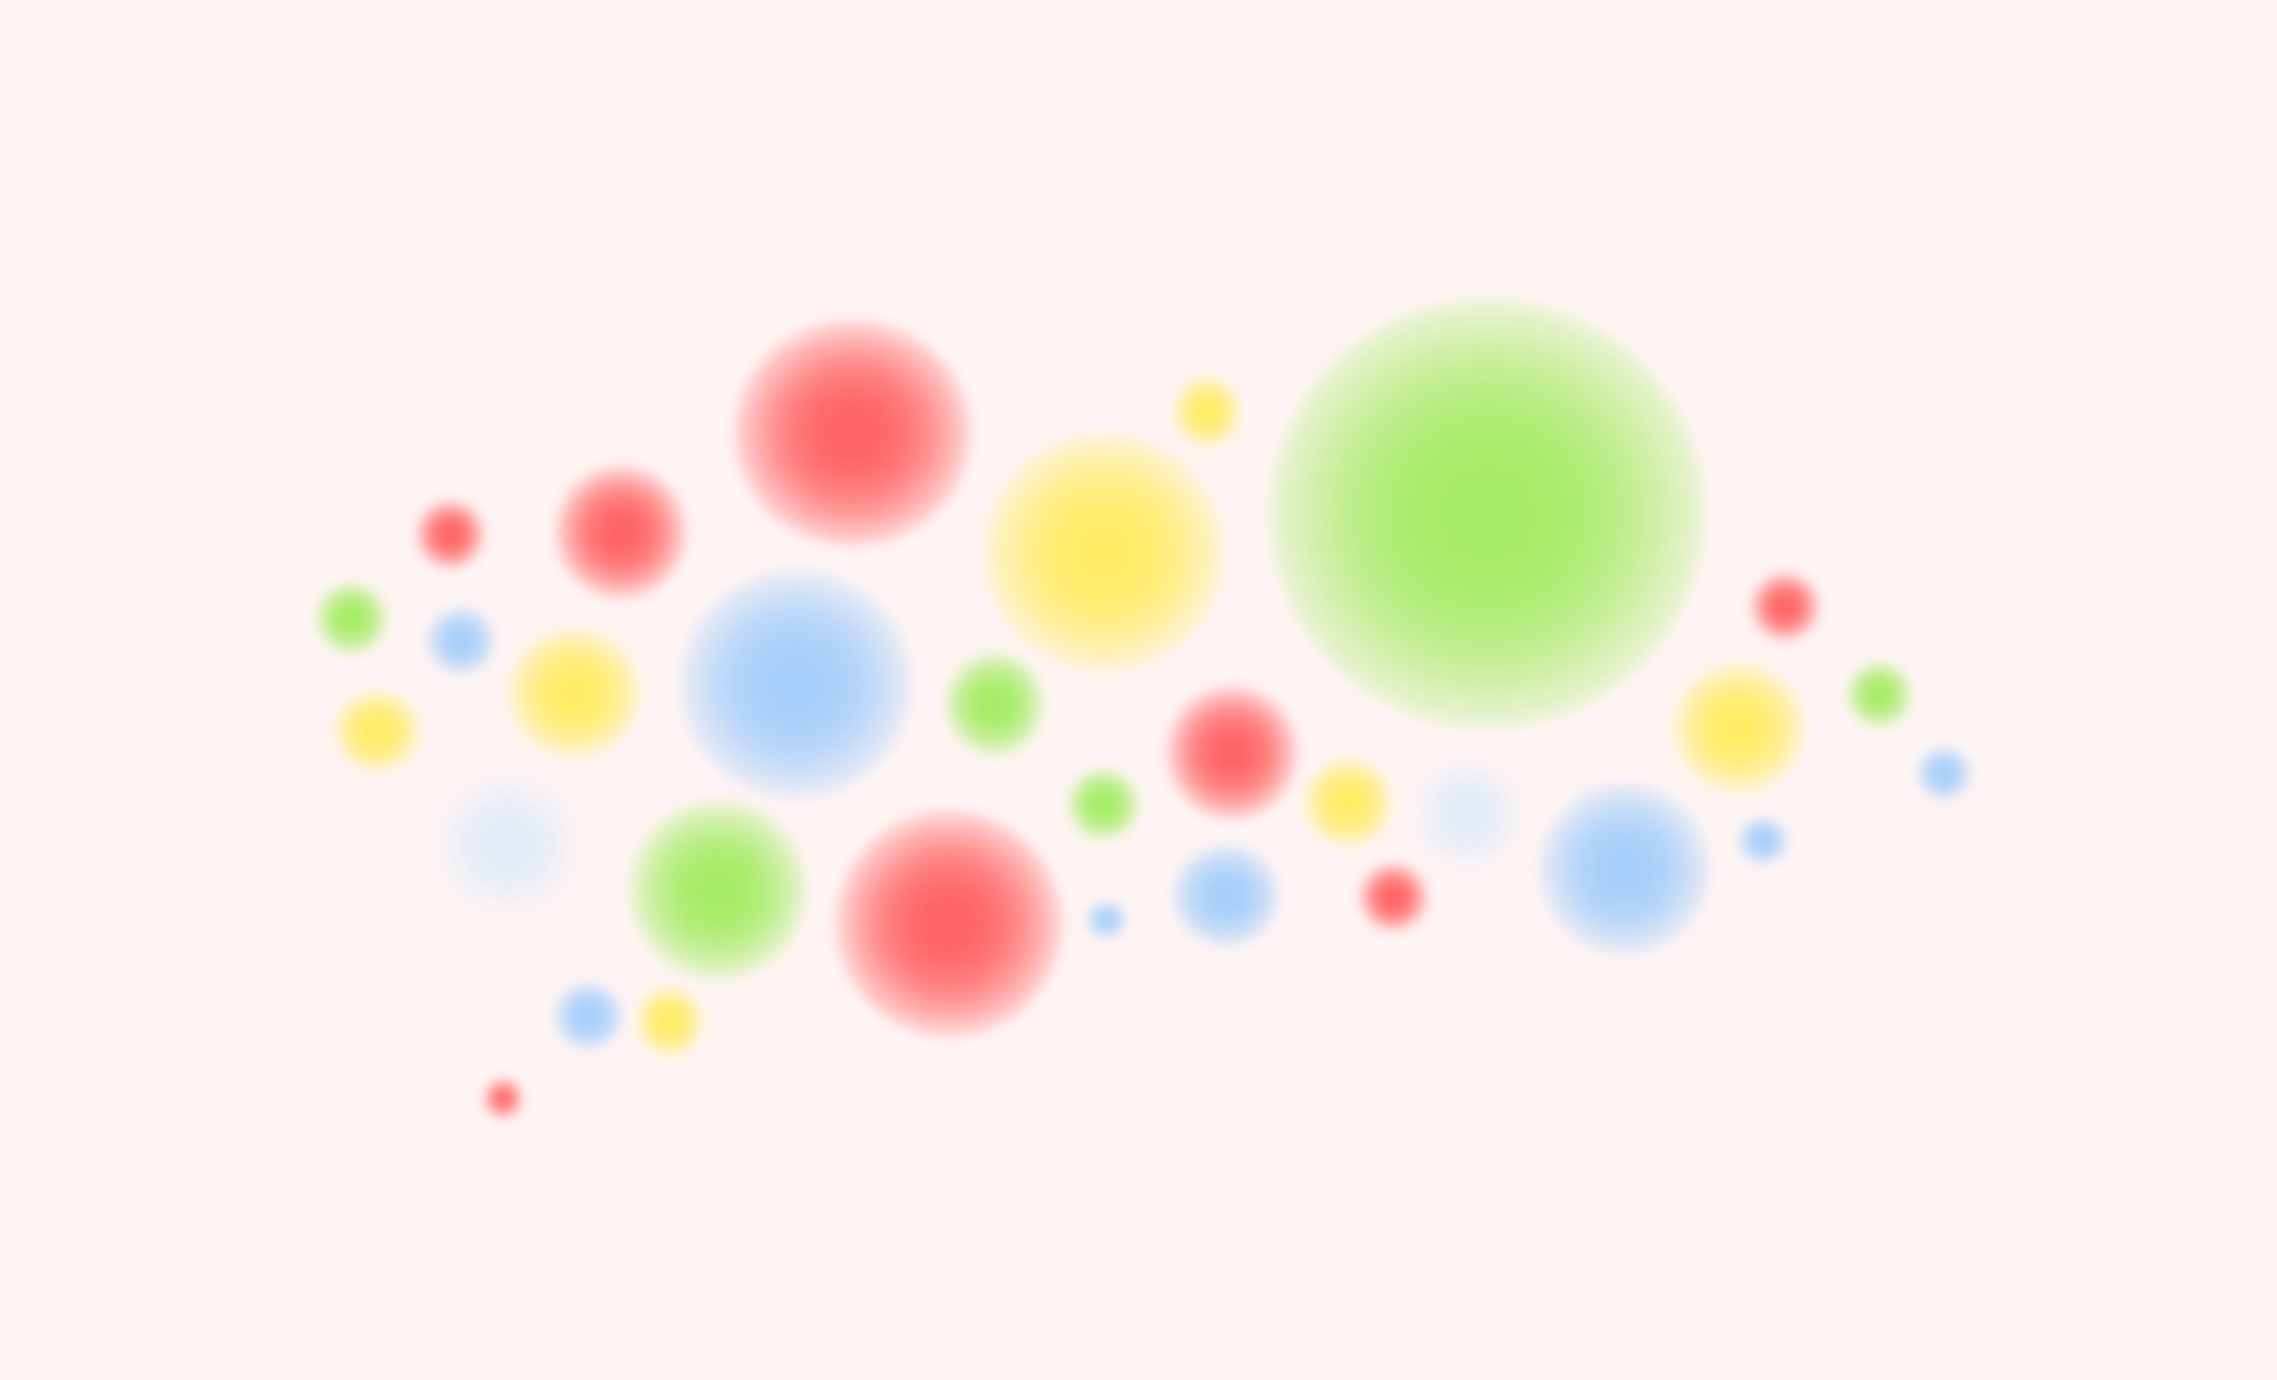
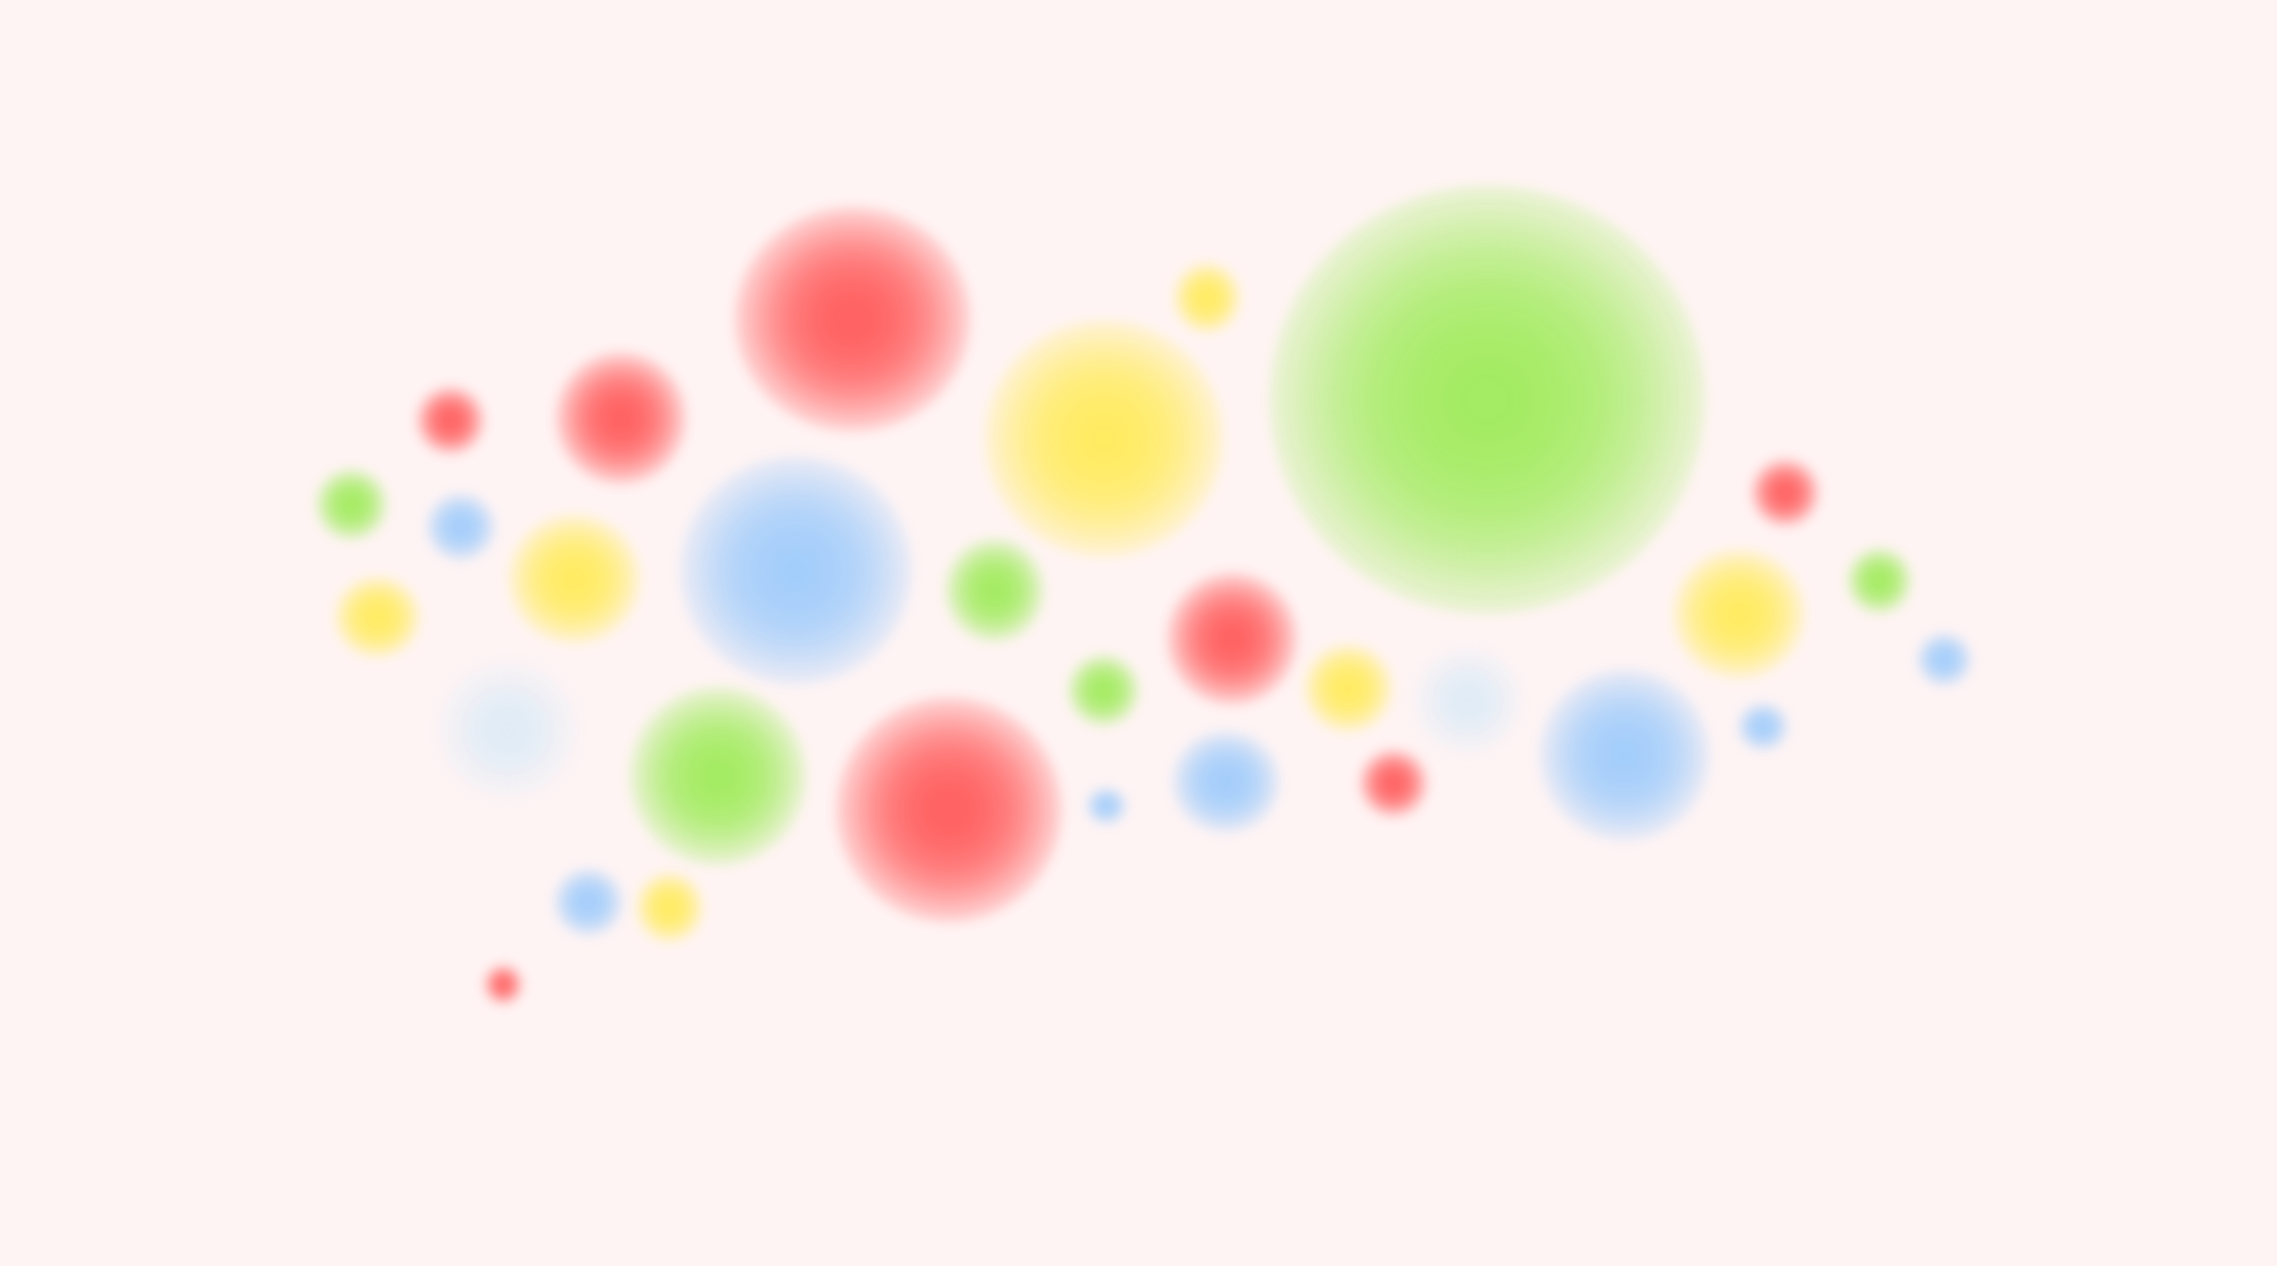
Clean home page and more

Changed region(s): [[0.1247, 0.154, 0.8731, 0.8009]]

diff --git a/layouts/index.html b/layouts/index.html
@@ -1,52 +1,3 @@
 {{ define "main" }}
 
-{{ $background_image := partial "func/GetBackgroundImage.html" . }}
-<div style="background: linear-gradient(to bottom, rgba(255,244,244,0) 97%, rgba(255,244,244,1)) 100%, url('{{ $background_image }}'); background-repeat: repeat-y;">
-
-{{ partial "home-parts.html" . }}
-
-  <div class="mt6" id="post_section">
-    {{/* Define a section to pull recent posts from. For Hugo 0.20 this will default to the section with the most number of pages. */}}
-    {{ $mainSections := .Site.Params.mainSections | default (slice "post") }}
-    {{/* Create a variable with that section to use in multiple places. */}}
-    {{ $section := where .Site.RegularPages "Section" "in" $mainSections }}
-    {{/* Check to see if the section is defined for ranging through it */}}
-    {{ $section_count := len $section }}
-    {{ if ge $section_count 1 }}
-      {{/* Derive the section name  */}}
-      {{ $section_name := index (.Site.Params.mainSections) 0 }}
-
-      <div class="pa3 pa4-ns w-100 w-70-ns center">
-        {{/* Use $section_name to get the section title. Use "with" to only show it if it exists */}}
-        {{ with .Site.GetPage "section" $section_name }}
-            <div class="fw1 f1 f1-l part-title">
-              {{ $.Param "recent_copy" | default (i18n "recentTitle" .) }}
-            </div>
-          {{ end }}
-
-        {{ $n_posts := $.Param "recent_posts_number" | default 3 }}
-
-        <section class="w-100 mw8">
-          {{/* Range through the first $n_posts items of the section */}}
-          {{ range (first $n_posts $section) }}
-            <div class="relative w-100 mb4">
-              {{ .Render "summary-with-image" }}
-            </div>
-          {{ end }}
-        </section>
-
-        {{ if ge $section_count (add $n_posts 1) }}
-        <section class="w-100">
-          
-          {{/* As above, Use $section_name to get the section title, and URL. Use "with" to only show it if it exists */}}
-          {{ with .Site.GetPage "section" $section_name }}
-            <a href="{{ .RelPermalink }}" class="link db f6 pa2 br3 bg-mid-gray white dim w4 tc center">{{ i18n "allPosts" . }}</a>
-          {{ end }}
-          </section>
-        {{ end }}
-
-        </div>
-    {{ end }}
-  </div>
-</div>
 {{ end }}

diff --git a/layouts/partials/site-header.html b/layouts/partials/site-header.html
@@ -1,7 +1,7 @@
 {{ $featured_image := partial "func/GetFeaturedImage.html" . }}
 {{ if $featured_image }}
   {{/* Trimming the slash and adding absURL make sure the image works no matter where our site lives */}}
-  <header class="cover bg-top" style="background: linear-gradient(to bottom, rgba(255,244,244,0) 90%, rgba(255,244,244,1) 100%), url('{{ $featured_image }}');">
+  <header class="cover bg-top vh-100" style="background: linear-gradient(to bottom, rgba(255,244,244,0) 90%, rgba(255,244,244,1) 100%), url('{{ $featured_image }}');">
     <div>
       {{ partial "site-navigation.html" .}}
       <div class="tc-l pv4 pt5-l pb7-l ph3 ph4-ns">
@@ -9,22 +9,22 @@
           {{ .Title | default .Site.Title }}
         </h1>
         {{ with .Params.description }}
-          <h2 class="fw1 f5 f3-l black-85 measure-wide-l center mt3">
+          <h2 class="normal f3-l black-85 measure-wide-l center mt3">
             {{ . }}
           </h2>
         {{ end }}
         {{ with .Params.jobs }}
-          <h3 class="fw1 f5 black-85 measure-wide-l center mt3">
+          <h3 class="normal f4 black-85 measure-wide-l center mt3">
             {{ . }}
           </h3>
         {{ end }}
         {{ with .Params.interests }}
-          <h3 class="fw1 f5 black-85 measure-wide-l center mt3">
+          <h3 class="normal f4 black-85 measure-wide-l center mt3">
             {{ . }}
           </h3>
         {{ end }}
-        {{ with .Params.next_div_id }}
-          <a href="#{{ . }}" class="ba b--moon-gray bg-light-gray br2 color-inherit dib f7 hover-bg-moon-gray link mt2 ph2 pv1">{{ $.Param "read_more_copy" | default (i18n "readMore") }}</a>
+        {{ with .Params.next_page }}
+          <a href="{{ . }}" class="ba b--moon-gray bg-light-gray br2 color-inherit dib f7 hover-bg-moon-gray link mt2 ph2 pv1">{{ $.Param "read_more_copy" | default (i18n "readMore") }}</a>
         {{ end }}
       </div>
     </div>

diff --git a/layouts/partials/site-navigation.html b/layouts/partials/site-navigation.html
@@ -1,6 +1,6 @@
 <nav class="pv3 ph3 ph4-ns" role="navigation">
   <div class="flex-l justify-between items-center center">
-    <a href="{{ .Site.Home.RelPermalink }}" class="f3 fw2 hover-white no-underline black-85 dib">
+    <a href="{{ .Site.Home.RelPermalink }}" class="f3 fw2 no-underline black-85 dib">
       {{ with .Site.Params.site_logo }}
         <img src="{{ relURL . }}" class="w100 mw5-ns" alt="{{ $.Site.Title }}" />
       {{ else }}
@@ -13,7 +13,7 @@
         <ul class="{{ cond (eq $.Site.Language.LanguageDirection "rtl") "pr0 ml3" "pl0 mr3" }}">
           {{ range .Site.Menus.main }}
           <li class="list f5 f4-ns fw4 dib {{ cond (eq $.Site.Language.LanguageDirection "rtl") "pl3" "pr3" }}">
-            <a class="hover-white no-underline black-70" href="{{ .URL }}" title="{{ i18n "pageTitle" . }}">
+            <a class="hover-blue no-underline black-70" href="{{ .URL }}" title="{{ i18n "pageTitle" . }}">
               {{ .Name }}
             </a>
           </li>

diff --git a/layouts/_default/baseof.html b/layouts/_default/baseof.html
@@ -42,10 +42,10 @@
 	{{ block "head" . }}{{ partial "head-additions.html" . }}{{ end }}
   </head>
 
-  <body class="ma0 {{ $.Param "body_classes"  | default "avenir bg-near-white"}}{{ with getenv "HUGO_ENV" }} {{ . }}{{ end }}">
+  <body class="ma0 {{ $.Param "body_classes"  | default "bg-all-site"}}{{ with getenv "HUGO_ENV" }} {{ . }}{{ end }}">
 
     {{ block "header" . }}{{ partial "site-header.html" .}}{{ end }}
-    <main class="pb4" role="main">
+    <main class="pb4" bg-all-site role="main">
       {{ block "main" . }}{{ end }}
     </main>
     {{ block "footer" . }}{{ partialCached "site-footer.html" . }}{{ end }}

diff --git a/layouts/partials/home-parts.html b/layouts/partials/home-parts.html
@@ -1,7 +1,7 @@
 {{ range where .Site.Pages "Params.home_part" true }}
 {{ $featured_image := partial "func/GetFeaturedImage.html" . }}
 
-	<div class="flex flex-column flex-row-ns pl3-ns pt5 pb7" id="{{ .Params.div_id }}">
+	<div class="flex flex-column flex-row-ns pl3-ns pt5 pb7 vh-100" id="{{ .Params.div_id }}">
 		<div class="blah w-100 w-60-ns f6 f5-l" >
 			<div class="fw1 f2 f2-l part-title">{{ .Params.part_title }}</div>
 			{{ .Content }}

diff --git a/assets/ananke/css/custom.css b/assets/ananke/css/custom.css
@@ -3,7 +3,8 @@
 }
 
 .site-body {
-    font-family: 'Source Serif Pro', serif;
+    font-family: 'Cantarell', serif;
+    color: #282828;
 }
 
 .part-title {
@@ -16,4 +17,11 @@
 
 html {
     scroll-behavior: smooth;
+}
+
+.ananke-socials a{
+    display: inline-block;
+    vertical-align: middle;
+    color: #505050;
+    fill: currentColor;
 }

diff --git a/content/chi-sono.md b/content/chi-sono.md
@@ -6,3 +6,50 @@ weight: 11
 draft: false
 ---
 
+![Maria Rosaria Tamborrino](/maria-rosaria-tamborrino-piccola.jpg)
+
+# Esperienza professionale
+
+Sono una psicologa e psicoterapeuta ad indirizzo *cognitivo-comportamentale*, specializzata in *neuropsicologia*, *schema therapy* e all'utilizzo del *biofeedback*. Inoltre sono *[EMDR](/blog/cose-lemdr-e-perche-e-utile) Practitioner*.
+Sono iscritta all'Ordine degli Psicologi della Regione Puglia con n. 2199 e attualmente svolgo l'attività di libera professionista presso il mio studio privato a **Martano** (Le) e a **Lecce**. Da gennaio 2023 lavoro come psicologa all'interno del **Centro Autismo Territoriale** (CAT) della ASL di Lecce.
+
+Ho maturato esperienza nella valutazione e riabilitazione neuropsicologica, con persone adulte e con bambini, lavorando dal 2007 al 2013 presso il Presidio di Riabilitazione funzionale “Istituto Santa Chiara”.
+
+Inoltre, ho seguito alcuni progetti in diverse scuole allo scopo di facilitare la gestione della classe attraverso il ricorso a tecniche comportamentali e di individuare precocemente difficoltà di apprendimento in bambini della scuola primaria e dell'infanzia.
+Sono stata componente del comitato di consulenti scientifici della Lega Italiana contro i Disturbi d'ansia, da Agorafobia e da Attacchi di Panico (LIDAP) per la provincia di Lecce,
+
+Ho collaborato con l'ASD "**Mollare mai**", associazione sportiva che ha come obiettivo quello di avvicinare le persone con disabilità allo sport, fornendo supporto psicologico ai partecipanti e alle loro famiglie. Attualmente, collaboro con l’Associazione “Io non mollo”, offrendo sostegno psicologico a pazienti oncologici e ai loro familiari.
+
+Sono Full Member dell'International Society of Schema Therapy (**ISST**), socia dell'**Associazione [EMDR Italia](https://emdr.it)** e dell'Associazione **[Mentecomportamento](https://www.mentecomportamento.it)**, Associazione Culturale che si occupa, a livello nazionale, di promozione della salute mentale e di plusdotazione cognitiva. Inoltre, sono socia **[AIRIPA](https://www.airipa.it)**, la principale associazione italiana che riunisce esperti e professionisti che operano nel campo della psicopatologia dell'apprendimento.
+
+Inoltre, ho collaborato con **[Gifted And Talented Education (GATE)-Italy](http://talentgate.it)**, Associazione Scientifica Nazionale senza scopo di lucro, che riunisce i principali esperti nazionali sui temi della **plusdotazione** e dei bisogni educativi speciali per rispondere ai bisogni dei **bambini ad alto potenziale intellettivo** (gifted children) e con bisogni educativi speciali, delle loro famiglie e dei loro insegnanti.
+
+# Formazione
+Nel 2003 ho conseguito la laurea triennale in **Scienze psicologiche, cognitive e psicobiologiche** con lode presso l'Università degli Studi di Padova e nel 2005, presso la stessa università, la laurea specialistica in **Psicologia sperimentale e neuroscienze cognitivo-comportamentale** con lode. Nel 2009 ho conseguito la specializzazione in **Psicoterapia cognitivo-comportamentale** presso l'Istituto Santa Chiara di Lecce.
+
+Nel 2007 ho frequentato il master di I livello in **Criminologia clinica e psicopatologia** forense presso l'Università del Salento. Inoltre, nel 2012 mi sono perfezionata in **Tecniche comportamentali in bambini con disturbi autistici ed evolutivi globali** presso l'Università di Modena e Reggio Emilia, nel 2013 in I *DSA (disturbi specifici dell'apprendimento): valutazione e intervento in ambito psicoeducativo** presso l'Università Europea di Roma. Inoltre, ho partecipato a diversi corsi di formazione e congressi inerenti la neuropsicologia, la psicoterapia e la psicofisiologia.
+
+Nel 2016 ho frequentato il training internazionale in **Schema Therapy**, organizzato dall'Istituto di Scienze Cognitive e accreditato dalla Società Internazionale di Schema Therapy.
+Inoltre, ho frequentato diversi corsi sulla **mindfulness** e sul suo utilizzo in età adulta e con i bambini.
+Nel 2017 ho frequentato il **Coping Power Program Training**, che abilita alla conduzione di gruppi Coping Power per bambini con problematiche comportamentali e alla diffusione del modello nel contesto scolastico.
+Nel 2018 ho conseguito la certificazione di II livello per l'uso del **Biofeedback**. Nello stesso anno ho frequentato il training di **I e II livello in EMDR** (Eye Movement Desentitation Reprocessing), approccio psicoterapeutico per il trattamento di diverse psicopatologie e problemi legati sia ad eventi traumatici, che a esperienze emotivamente stressanti.
+Nel 2019 ho frequentato il workshop in **Mindful Interbeing Mirror Therapy**, un approccio psicoterapeutico innovativo. Nello stesso anno ho conseguito il titolo di **Esperto in valutazione e riabilitazione neurocognitiva dell'età evolutiva, dell'adulto e dell'anziano** frequentando il Master di II livello dell'Università del Salento.
+Nel 2020 ho frequentato il training base in **Compassion Focused Therapy**.
+Nel 2022 ho frequentato il master di I livello in **Gifted. Didattica  e psicopedagogia per gli alunni con alto potenziale cognitivo e plusdotazione** organizzato dall'Università LUMSA.
+
+# Attività didattica
+Dal 2010 al 2013 sono stata **docente** di neuropsicologia presso la scuola di specializzazione “Istituto Santa Chiara”.
+Ho tenuto numerosi corsi di formazione riguardanti la neuropsicologia, i disturbi dell'apprendimento, la plusdotazione cognitiva e le problematiche comportamentali, rivolti ad insegnanti, educatori, operatori dell'ambito sanitario e genitori. 
+
+# Partecipazioni a convegni
+Ho partecipato in qualità di relatrice a diversi congressi:
+
+* III Convegno Internazionale "Gifted Education e Inclusione: miti, mode e misconcezioni":  "QI o IAG? Quale indice riflette al meglio la plusdotazione?"
+* XXI Congresso AIRIPA: “Screening in età prescolare: risultati di un’esperienza con il test SR 4-5”
+* 16th Congress of the European Federation of Neurological Societies: “Topographical disorientation in ageing: preliminary results in healthy subjects and MCI patients”
+* XI Congresso Nazionale SIRN: “Riabilitazione neuropsicologica della Sclerosi multipla attraverso un training computerizzato”
+* XIX Congresso Nazionale AIRIPA: “Distrofia dei cingoli e ADHD: analisi di un caso clinico”
+* III Congresso Nazionale GIRN 2010: “La riabilitazione del neglect: un caso clinico”
+* I Congresso Regionale AIDAI-Puglia: Attenzione e funzioni esecutive in soggetti con DDAI: strumenti di valutazione e test neuropsicologici”
+* I Congresso Internazionale AINp: “La riabilitazione neuropsicologica in un soggetto con ritardo mentale lieve: un caso clinico”
+* IV Congresso Nazionale di Disabilità, Trattamento, Integrazione: “Cambiamenti qualitativi e quantitativi nell’invecchiamento normale e nei disturbi progressivi degenerativi”.

diff --git a/content/_index.md b/content/_index.md
@@ -3,7 +3,7 @@ title: ""
 description: "Dott.ssa Maria Rosaria Tamborrino"
 jobs: "Psicologa, psicoterapeuta cognitivo-comportamentale, EMDR Practitioner" 
 interests: ""
-next_div_id: "mio_lavoro"
+next_page: "/chi-sono"
 date: 2023-03-12T23:41:10+01:00
 cascade:
   omit_header_text: false

diff --git a/content/blog/_index.md b/content/blog/_index.md
@@ -4,7 +4,7 @@ description: "Una raccolta dei miei articoli nell'ambito della psicologia e dell
 menu: "main"
 weight: 13
 layout: page-header.html
-next_div_id: "all_posts"
+next_page: "#all_posts"
 date: 2023-03-12T23:41:10+01:00
 ---
 
